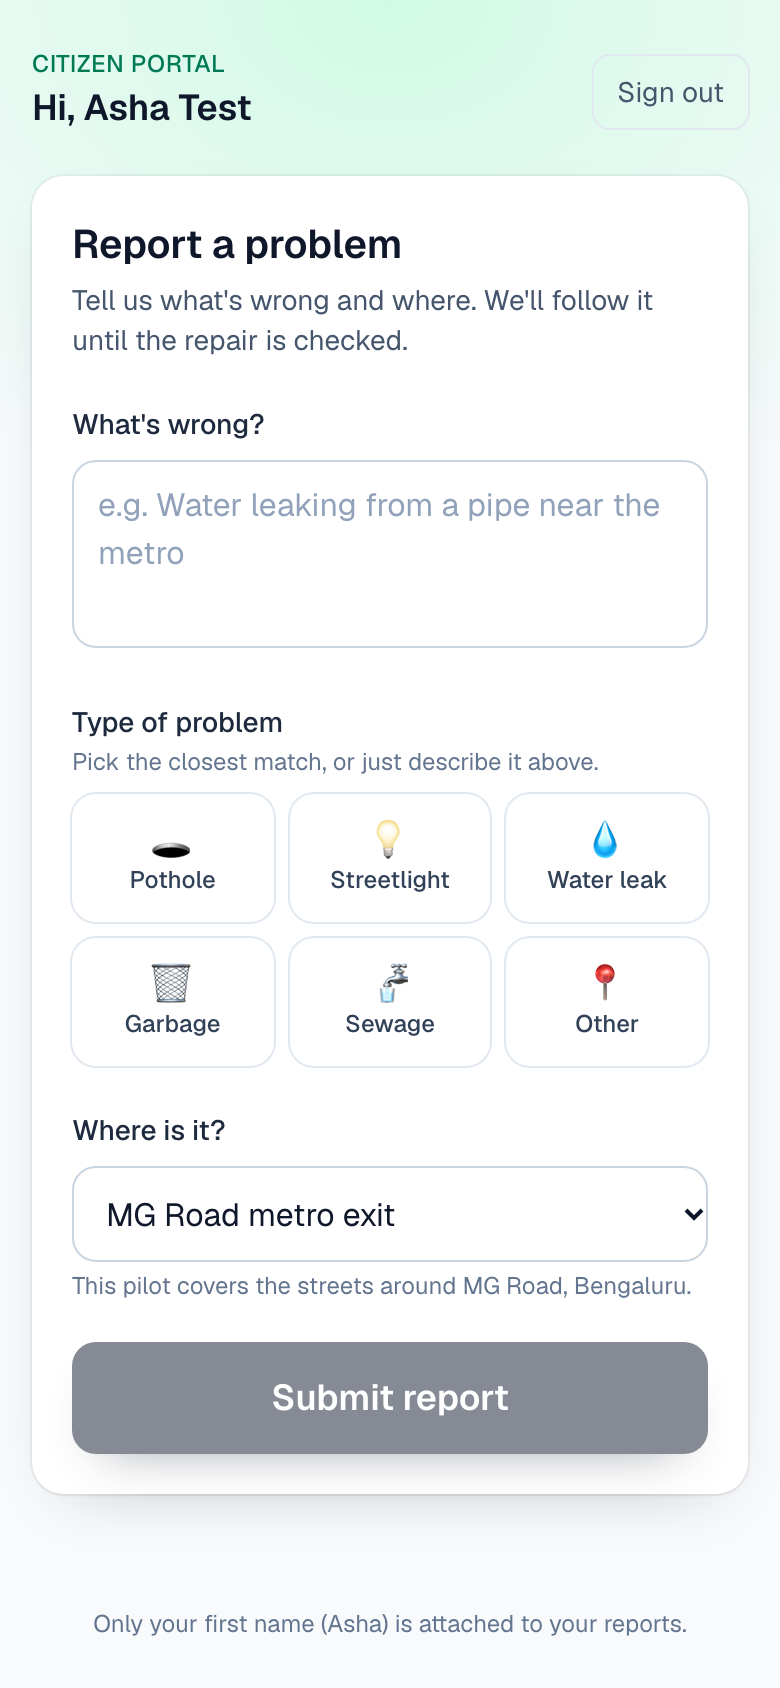
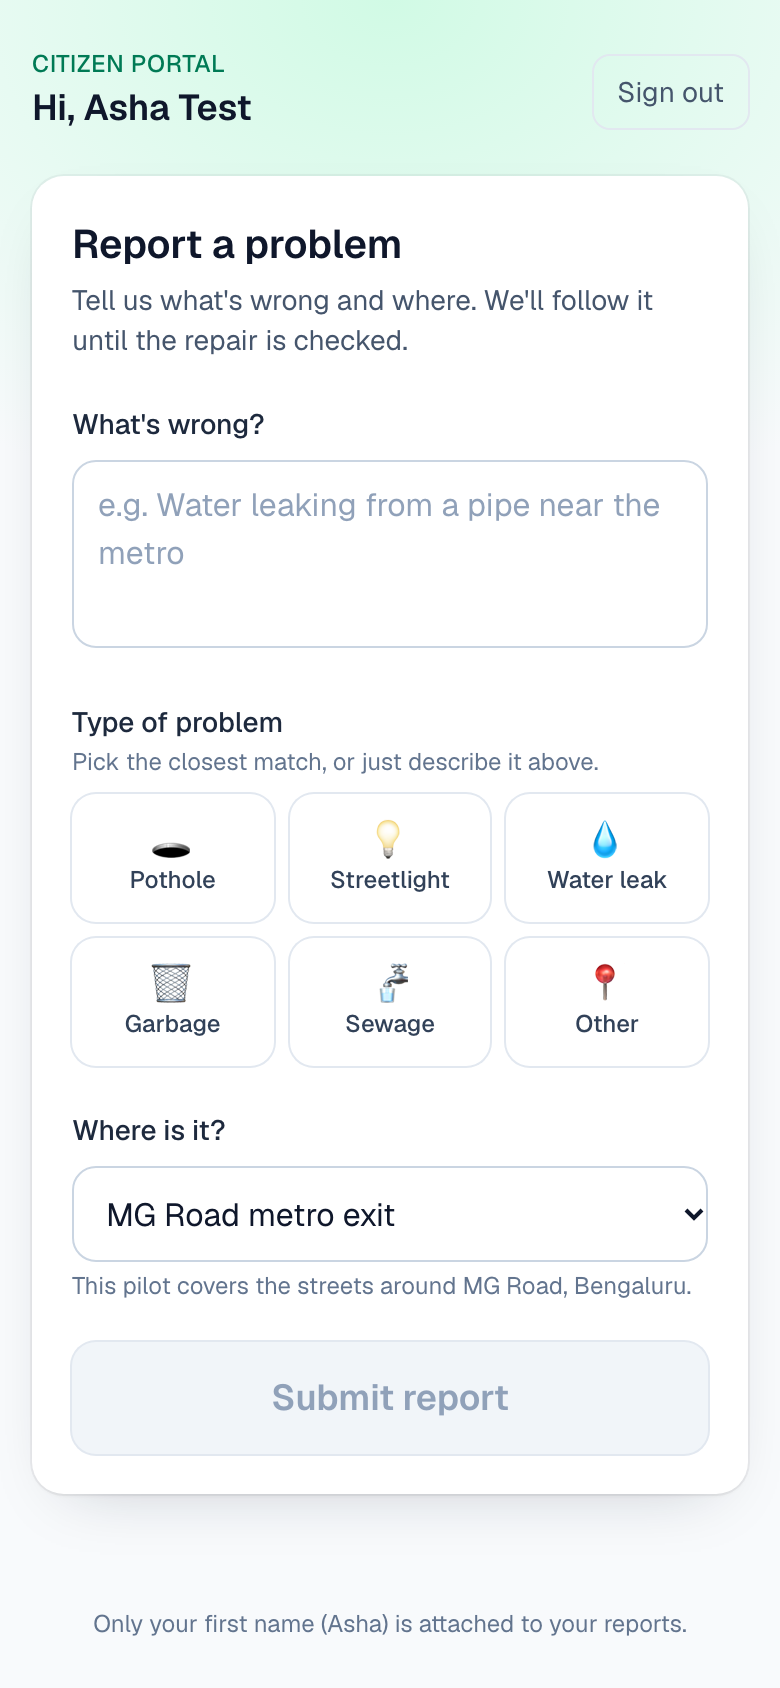
Citizen UX review nits: quieter timeline, 'assigned again', softer disabled button, no role question when signed in
- hide the internal replan line from the citizen timeline
- repeat assignments read 'was assigned again' / 'took over the case'
- disabled 'Submit report' uses a light style instead of a grey slab
- feedback on /track skips 'Who are you?' for a signed-in citizen (role = citizen)
- refreshed after-screenshots; e2e.py + e2e_citizen_flow.py PASS

Changed region(s): [[0.0923, 0.7701, 0.9231, 0.8934]]

diff --git a/frontend/src/components/FeedbackWidget.tsx b/frontend/src/components/FeedbackWidget.tsx
@@ -15,10 +15,12 @@ const ROLES = [
 // Shown when the backend has no /feedback route yet (it is being added in parallel).
 const NOT_READY = "Feedback isn't switched on yet. Please try again later.";
 
-export function FeedbackWidget({ incidentId, page }: { incidentId?: string; page?: string } = {}) {
+/** `knownRole` skips the "Who are you?" question when the page already knows (signed-in citizen). */
+export function FeedbackWidget({ incidentId, page, knownRole }: { incidentId?: string; page?: string; knownRole?: string } = {}) {
   const [rating, setRating] = useState(0);
   const [sent, setSent] = useState(false);
-  const [role, setRole] = useState("citizen");
+  const [chosenRole, setRole] = useState("citizen");
+  const role = knownRole ?? chosenRole;
   const [comment, setComment] = useState("");
   const [busy, setBusy] = useState(false);
   const [message, setMessage] = useState<string | null>(null);
@@ -95,20 +97,22 @@ export function FeedbackWidget({ incidentId, page }: { incidentId?: string; page
         ))}
       </div>
 
-      <label className="mt-4 block text-sm font-medium text-slate-700">
-        Who are you?
-        <select
-          value={role}
-          onChange={(e) => setRole(e.target.value)}
-          className="mt-1 h-11 w-full rounded-lg border border-slate-300 bg-white px-3 text-base"
-        >
-          {ROLES.map((r) => (
-            <option key={r.value} value={r.value}>
-              {r.label}
-            </option>
-          ))}
-        </select>
-      </label>
+      {!knownRole && (
+        <label className="mt-4 block text-sm font-medium text-slate-700">
+          Who are you?
+          <select
+            value={role}
+            onChange={(e) => setRole(e.target.value)}
+            className="mt-1 h-11 w-full rounded-lg border border-slate-300 bg-white px-3 text-base"
+          >
+            {ROLES.map((r) => (
+              <option key={r.value} value={r.value}>
+                {r.label}
+              </option>
+            ))}
+          </select>
+        </label>
+      )}
 
       <label className="mt-4 block text-sm font-medium text-slate-700">
         Comment <span className="font-normal text-slate-400">(optional)</span>

diff --git a/frontend/src/lib/citizen.ts b/frontend/src/lib/citizen.ts
@@ -35,8 +35,6 @@ export function citizenEvent(e: AuditEvent): string | null {
       return "Linked to a related problem nearby so the teams can coordinate.";
     case "escalated":
       return "No crew was free, so a supervisor was alerted.";
-    case "replanned":
-      return "The crew changed, so the work plan was updated.";
     case "work_started":
       return "The crew started work.";
     case "work_completed":
@@ -60,15 +58,25 @@ export function citizenEvent(e: AuditEvent): string | null {
     case "parent_resolved":
       return "The underlying problem was fixed. Please check that this one is fixed too.";
     default:
-      return null; // no_resource, plan_invalidated, notified, link_explained, ai_photo_check, ...
+      return null; // no_resource, plan_invalidated, replanned, notified, link_explained, ai_photo_check, ...
   }
 }
+
+const crewOf = (e: AuditEvent) => /^Assigned (.+?) \(/.exec(e.detail)?.[1] ?? null;
 
 /** Citizen timeline: friendly lines, internal events hidden, back-to-back repeats collapsed. */
 export function citizenTimeline(audit: AuditEvent[]): { id: string; timestamp: string; text: string }[] {
   const out: { id: string; timestamp: string; text: string }[] = [];
+  let lastCrew: string | null = null;
+  let assignedBefore = false;
   for (const e of [...audit].sort((a, b) => a.timestamp.localeCompare(b.timestamp))) {
-    const text = citizenEvent(e);
+    let text = citizenEvent(e);
+    if (e.event_type === "assigned") {
+      const crew = crewOf(e);
+      if (assignedBefore && crew) text = crew === lastCrew ? `${crew} was assigned again.` : `${crew} took over the case.`;
+      assignedBefore = true;
+      lastCrew = crew ?? lastCrew;
+    }
     if (text && out.at(-1)?.text !== text) out.push({ id: e.id, timestamp: e.timestamp, text });
   }
   return out;

diff --git a/frontend/src/components/CitizenReportForm.tsx b/frontend/src/components/CitizenReportForm.tsx
@@ -128,7 +128,7 @@ export function CitizenReportForm({
       <button
         type="submit"
         disabled={!canSubmit}
-        className={`${BIG_BUTTON} bg-slate-900 text-white shadow-[0_12px_26px_-16px_rgba(15,23,42,0.9)] hover:bg-slate-800`}
+        className={`${BIG_BUTTON} bg-slate-900 text-white shadow-[0_12px_26px_-16px_rgba(15,23,42,0.9)] hover:bg-slate-800 disabled:bg-slate-100 disabled:text-slate-400 disabled:opacity-100 disabled:shadow-none disabled:ring-1 disabled:ring-slate-200`}
       >
         {busy ? "Sending…" : "Submit report"}
       </button>

diff --git a/frontend/src/app/track/[id]/TrackView.tsx b/frontend/src/app/track/[id]/TrackView.tsx
@@ -306,7 +306,7 @@ export function TrackView({ params }: { params: Promise<{ id: string }> }) {
       </Reveal>
 
       <Reveal index={4}>
-        <FeedbackWidget incidentId={incident.id} page="/track" />
+        <FeedbackWidget incidentId={incident.id} page="/track" knownRole={citizenName ? "citizen" : undefined} />
       </Reveal>
 
       <nav className="flex items-center justify-center gap-6 pb-2 text-sm text-slate-600">
